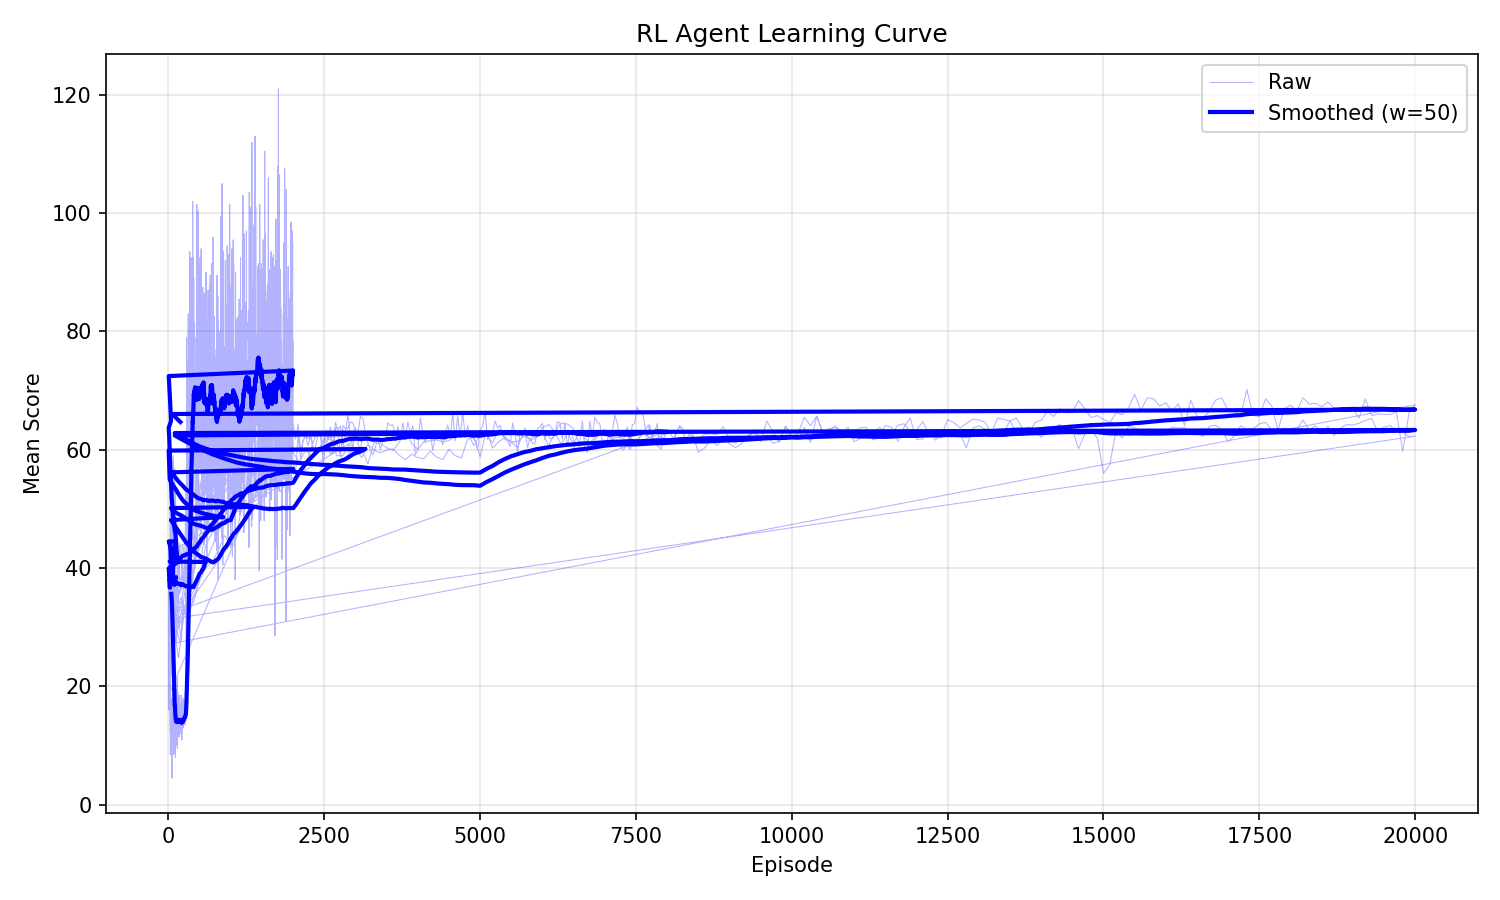
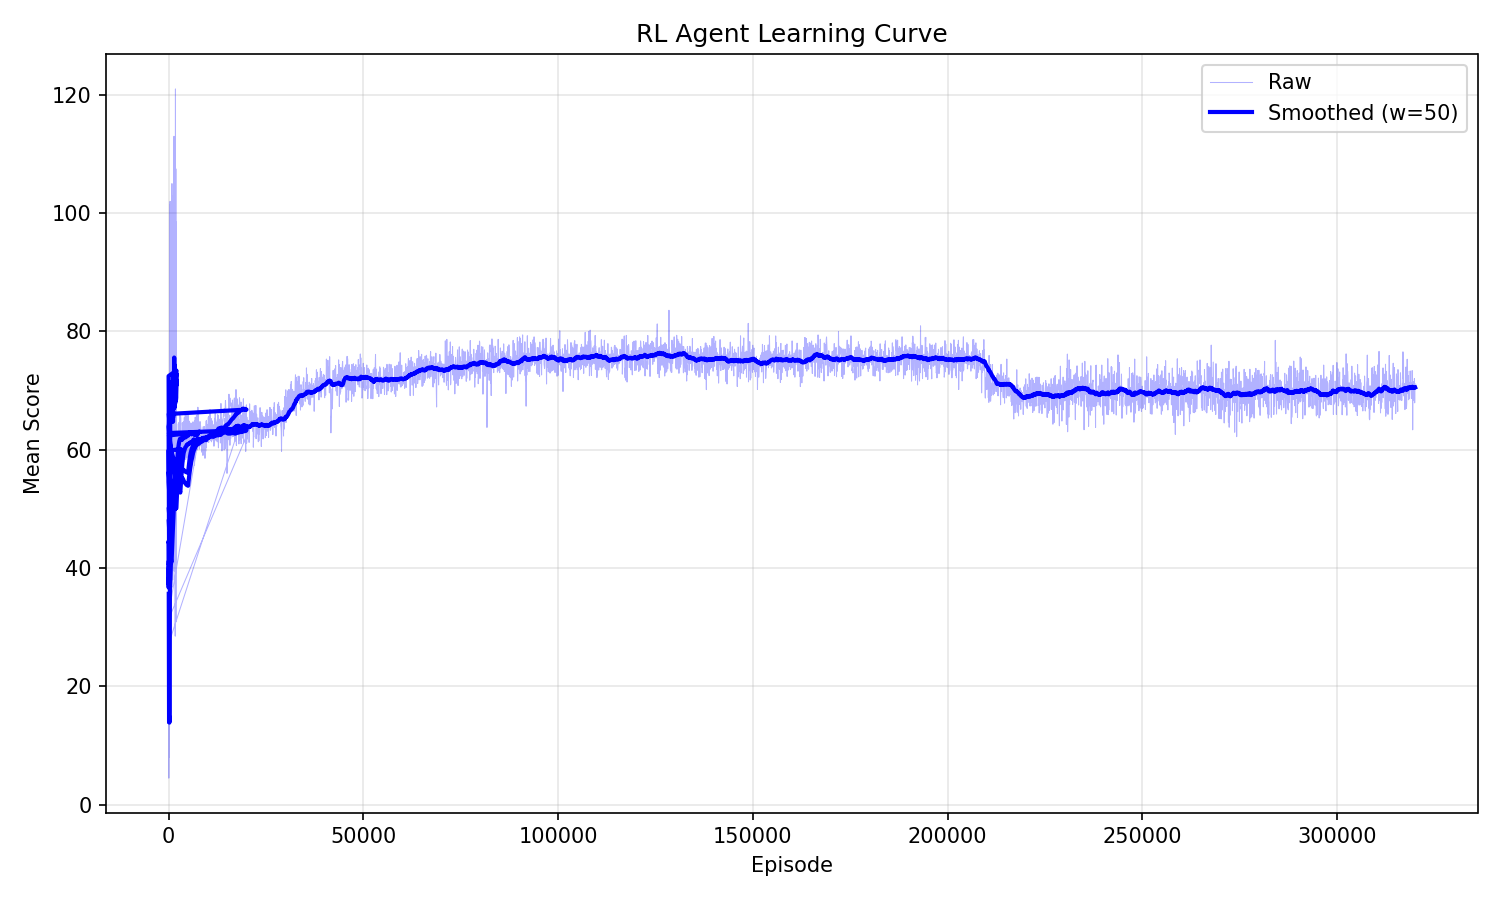
early exit

diff --git a/scripts/train_rl.py b/scripts/train_rl.py
@@ -12,6 +12,7 @@ from torch.utils.tensorboard import SummaryWriter
 from model.policy_network import PolicyNetwork, STATE_SIZE
 from model.ppo import PPOConfig, PPOTrainer, PPOUpdateResult
 from model.trajectory_buffer import build_batch
+from model.early_stop import EarlyStopConfig, EarlyStopTracker
 from model.rl_utils import collect_batch
 from src.game.rl_observer import PROMPT_FEATURES_SIZE
 
@@ -45,6 +46,7 @@ class TrainingConfig:
     num_workers: int = 0
     features: FeatureFlags = field(default_factory=FeatureFlags)
     io: IOConfig = field(default_factory=IOConfig)
+    early_stop: EarlyStopConfig = field(default_factory=EarlyStopConfig)
 
 
 @dataclass
@@ -89,11 +91,32 @@ def _training_loop(
     config: TrainingConfig,
     start_iteration: int,
 ) -> None:
+    tracker = EarlyStopTracker(
+        patience=config.early_stop.patience,
+        smoothing=config.early_stop.smoothing,
+    )
+    last_iteration = start_iteration
     for iteration in range(start_iteration, config.iterations):
         result, metrics = _training_step(ctx, config, iteration)
         _log_iteration(writer, metrics, result)
         _maybe_checkpoint(ctx.policy, ctx.trainer, iteration, config)
-    _save_checkpoint(ctx.policy, ctx.trainer, config.iterations - 1, config.io.checkpoint_dir)
+        last_iteration = iteration
+        if _check_early_stop(tracker, metrics, ctx.policy):
+            break
+    _save_checkpoint(ctx.policy, ctx.trainer, last_iteration, config.io.checkpoint_dir)
+
+
+def _check_early_stop(
+    tracker: EarlyStopTracker,
+    metrics: IterationMetrics,
+    policy: PolicyNetwork,
+) -> bool:
+    mean_score = sum(metrics.scores) / len(metrics.scores)
+    if tracker.step(mean_score, policy.state_dict()):
+        logger.info("Restoring best weights (smoothed score: %.1f)", tracker.best_score)
+        policy.load_state_dict(tracker.best_state())
+        return True
+    return False
 
 
 def _training_step(
@@ -252,6 +275,10 @@ def _build_config(args: argparse.Namespace) -> TrainingConfig:
         log_dir=args.log_dir,
         resume=args.resume,
     )
+    early_stop = EarlyStopConfig(
+        patience=args.early_stop_patience,
+        smoothing=args.early_stop_smoothing,
+    )
     return TrainingConfig(
         iterations=args.iterations,
         batch_size=args.batch_size,
@@ -261,6 +288,7 @@ def _build_config(args: argparse.Namespace) -> TrainingConfig:
         hidden2=args.hidden2,
         features=features,
         io=io_config,
+        early_stop=early_stop,
     )
 
 
@@ -284,6 +312,8 @@ def _parse_arguments() -> argparse.Namespace:
     parser.add_argument("--curriculum", action="store_true", help="Enable curriculum learning (gradual round increase)")
     parser.add_argument("--max-rounds-start", type=int, default=2, help="Starting number of rounds for curriculum")
     parser.add_argument("--max-rounds-end", type=int, default=6, help="Final number of rounds for curriculum")
+    parser.add_argument("--early-stop-patience", type=int, default=0, help="Early stop patience in iterations (0=disabled)")
+    parser.add_argument("--early-stop-smoothing", type=float, default=0.05, help="EMA smoothing factor for early stop score")
     return parser.parse_args()
 
 

diff --git a/test/model/test_early_stop.py b/test/model/test_early_stop.py
@@ -1,0 +1,77 @@
+from model.early_stop import EarlyStopTracker
+
+
+class TestEarlyStopTrackerDisabled:
+    def test_never_stops_when_patience_zero(self):
+        tracker = EarlyStopTracker(patience=0, smoothing=0.05)
+        assert not tracker.step(10.0, {"w": 1})
+
+    def test_not_enabled_when_patience_zero(self):
+        tracker = EarlyStopTracker(patience=0, smoothing=0.05)
+        assert not tracker.enabled
+
+
+class TestEarlyStopTrackerStop:
+    def test_no_stop_while_improving(self):
+        tracker = EarlyStopTracker(patience=3, smoothing=1.0)
+        tracker.step(10.0, {})
+        tracker.step(20.0, {})
+        assert not tracker.step(30.0, {})
+
+    def test_stops_after_patience_exceeded(self):
+        tracker = EarlyStopTracker(patience=3, smoothing=1.0)
+        tracker.step(100.0, {})
+        tracker.step(90.0, {})
+        tracker.step(80.0, {})
+        assert tracker.step(70.0, {})
+
+    def test_does_not_stop_before_patience(self):
+        tracker = EarlyStopTracker(patience=3, smoothing=1.0)
+        tracker.step(100.0, {})
+        tracker.step(90.0, {})
+        assert not tracker.step(80.0, {})
+
+    def test_resets_wait_on_improvement(self):
+        tracker = EarlyStopTracker(patience=3, smoothing=1.0)
+        tracker.step(100.0, {})
+        tracker.step(90.0, {})
+        tracker.step(110.0, {})
+        tracker.step(100.0, {})
+        assert not tracker.step(90.0, {})
+
+
+class TestEarlyStopTrackerBestState:
+    def test_returns_snapshot_at_peak(self):
+        tracker = EarlyStopTracker(patience=2, smoothing=1.0)
+        tracker.step(100.0, {"w": "best"})
+        tracker.step(50.0, {"w": "bad1"})
+        tracker.step(40.0, {"w": "bad2"})
+        assert tracker.best_state() == {"w": "best"}
+
+    def test_is_deep_copy(self):
+        state = {"w": [1, 2, 3]}
+        tracker = EarlyStopTracker(patience=5, smoothing=1.0)
+        tracker.step(100.0, state)
+        state["w"].append(4)
+        assert tracker.best_state() == {"w": [1, 2, 3]}
+
+    def test_best_score_tracks_peak(self):
+        tracker = EarlyStopTracker(patience=10, smoothing=1.0)
+        tracker.step(50.0, {})
+        tracker.step(100.0, {})
+        tracker.step(75.0, {})
+        assert tracker.best_score == 100.0
+
+
+class TestEarlyStopTrackerSmoothing:
+    def test_dampens_spike(self):
+        tracker = EarlyStopTracker(patience=3, smoothing=0.1)
+        tracker.step(100.0, {})
+        tracker.step(200.0, {})
+        assert tracker.best_score < 120.0
+
+    def test_smoothing_one_uses_raw_score(self):
+        tracker = EarlyStopTracker(patience=3, smoothing=1.0)
+        tracker.step(50.0, {})
+        tracker.step(100.0, {})
+        assert tracker.best_score == 100.0

diff --git a/model/early_stop.py b/model/early_stop.py
@@ -1,0 +1,68 @@
+from __future__ import annotations
+
+import copy
+import logging
+from dataclasses import dataclass, field
+
+logger = logging.getLogger(__name__)
+
+
+@dataclass
+class EarlyStopConfig:
+    patience: int = 0
+    smoothing: float = 0.05
+
+
+@dataclass
+class EarlyStopTracker:
+    patience: int
+    smoothing: float
+    _best_smoothed_score: float = field(default=float("-inf"), init=False, repr=False)
+    _smoothed_score: float = field(default=0.0, init=False, repr=False)
+    _best_state_dict: dict = field(default_factory=dict, init=False, repr=False)
+    _wait: int = field(default=0, init=False, repr=False)
+    _initialized: bool = field(default=False, init=False, repr=False)
+
+    @property
+    def best_score(self) -> float:
+        return self._best_smoothed_score
+
+    @property
+    def enabled(self) -> bool:
+        return self.patience > 0
+
+    def step(self, raw_score: float, state_dict: dict) -> bool:
+        if not self.enabled:
+            return False
+        self._update_smoothed(raw_score)
+        if self._smoothed_score > self._best_smoothed_score:
+            self._record_best(state_dict)
+            return False
+        self._wait += 1
+        if self._wait >= self.patience:
+            logger.info(
+                "Early stopping after %d iterations without improvement "
+                "(best smoothed score: %.1f)",
+                self._wait,
+                self._best_smoothed_score,
+            )
+            return True
+        return False
+
+    def best_state(self) -> dict:
+        return self._best_state_dict
+
+    def _record_best(self, state_dict: dict) -> None:
+        self._best_smoothed_score = self._smoothed_score
+        self._best_state_dict = copy.deepcopy(state_dict)
+        self._wait = 0
+
+    def _update_smoothed(self, raw_score: float) -> None:
+        if not self._initialized:
+            self._smoothed_score = raw_score
+            self._initialized = True
+        else:
+            self._smoothed_score = (
+                self.smoothing * raw_score
+                + (1 - self.smoothing) * self._smoothed_score
+            )

diff --git a/ARCHITECTURE.md b/ARCHITECTURE.md
@@ -44,6 +44,7 @@ model/
 ├── policy_network.py      # PolicyNetwork (nn.Module): shared trunk + policy/value heads
 ├── trajectory_buffer.py   # Transition, Trajectory, GAE computation, batch building
 ├── ppo.py                 # PPOTrainer, PPOConfig, clipped surrogate loss
+├── early_stop.py          # EarlyStopConfig, EarlyStopTracker (EMA-based early stopping with best-model restoration)
 └── rl_utils.py            # Shared helpers: make_policy_fn, run_episode, collect_batch (sequential/parallel), convert_trajectory
 scripts/
 ├── train_rl.py            # RL training entrypoint (PPO training loop, checkpointing, TensorBoard)
@@ -102,7 +103,9 @@ scripts/
 | `TrajectoryBatch` | `model/trajectory_buffer.py` | Flat tensors (states, actions, log_probs, values, action_masks, advantages, returns) for a batch of trajectories | `torch` |
 | `PPOConfig` | `model/ppo.py` | Dataclass holding PPO hyperparameters: learning rate, clip epsilon, epochs per batch, entropy/value coefficients, max grad norm, minibatch size | — |
 | `PPOTrainer` | `model/ppo.py` | Runs PPO updates: minibatch splitting, clipped surrogate loss, value loss, entropy bonus, gradient clipping | `PolicyNetwork`, `TrajectoryBatch`, `PPOConfig` |
-| `TrainingConfig` | `scripts/train_rl.py` | Dataclass holding training loop parameters: iterations, batch size, num_workers, hidden layer sizes, and nested `PPOConfig`, `FeatureFlags`, `IOConfig` | `PPOConfig`, `FeatureFlags`, `IOConfig` |
+| `EarlyStopConfig` | `model/early_stop.py` | Dataclass holding early stopping parameters: patience (iterations without improvement, 0=disabled) and EMA smoothing factor | — |
+| `EarlyStopTracker` | `model/early_stop.py` | Tracks exponential moving average of scores, snapshots best policy state, signals when to stop and provides best weights for restoration | — |
+| `TrainingConfig` | `scripts/train_rl.py` | Dataclass holding training loop parameters: iterations, batch size, num_workers, hidden layer sizes, and nested `PPOConfig`, `FeatureFlags`, `IOConfig`, `EarlyStopConfig` | `PPOConfig`, `FeatureFlags`, `IOConfig`, `EarlyStopConfig` |
 | `FeatureFlags` | `scripts/train_rl.py` | Dataclass holding feature toggles: observation augmentation, LR decay, curriculum learning (start/end rounds) | — |
 | `IOConfig` | `scripts/train_rl.py` | Dataclass holding I/O parameters: checkpoint interval/dir, log dir, resume path | — |
 | `TrainingContext` | `scripts/train_rl.py` | Dataclass bundling policy, trainer, and optional LR scheduler for the training loop | `PolicyNetwork`, `PPOTrainer` |
@@ -231,9 +234,9 @@ model/
       └── updates PolicyNetwork using TrajectoryBatch
 
 scripts/
-├── train_rl.py ─→ rl_utils, PolicyNetwork, PPOTrainer
+├── train_rl.py ─→ rl_utils, PolicyNetwork, PPOTrainer, EarlyStopTracker
 │                 └── training loop: collect episodes → build batch → PPO update → log & checkpoint
-│                 └── features: observation augmentation, LR decay, curriculum learning
+│                 └── features: observation augmentation, LR decay, curriculum learning, early stopping
 ├── pbt_train_rl.py ─→ rl_utils, PolicyNetwork, PPOTrainer
 │                    └── population-based training: init agents → train step → evaluate → exploit/explore
 └── evaluate_rl.py ─→ Game, RLObserver, RLInputHandler, PolicyNetwork, AutomaticInputHandler, AlwaysAcceptInputHandler

diff --git a/README.md b/README.md
@@ -134,6 +134,11 @@ Train with **parallel episode collection** (uses multiple CPU cores):
 python main.py train --num-workers 4
 ```
 
+Train with **early stopping** (stops when score plateaus, restores best weights):
+```bash
+python main.py train --early-stop-patience 300 --early-stop-smoothing 0.05
+```
+
 Evaluate the **RL agent** against baselines (random, always-accept):
 ```bash
 make evaluate-rl
@@ -154,9 +159,10 @@ Run PBT training with **Docker** (default 5 iterations):
 make docker-run
 ```
 
-Override the number of iterations:
+Override the number of iterations or parallel workers:
 ```bash
 make docker-run ITERATIONS=1000
+make docker-run NUM_WORKERS=8
 ```
 
 Clean up Docker resources:
@@ -184,7 +190,7 @@ Population-Based Training runs multiple agents in parallel, periodically replaci
 | **eval_interval** | `--eval-interval` | 50 | How often (in iterations) agents are evaluated and exploit/explore is triggered. Lower values adapt faster but add evaluation overhead. |
 | **eval_episodes** | `--eval-episodes` | 32 | Number of game episodes used to estimate each agent's mean score. More episodes reduce variance in fitness estimation. |
 | **batch_size** | `--batch-size` | 64 | Number of game episodes collected per agent per training step. Larger batches give more stable gradient estimates but slow each iteration. |
-| **num_workers** | `--num-workers` | 0 | Number of parallel worker processes for episode collection. 0 means sequential. Set to the number of CPU cores for best throughput. GPU is not used because the bottleneck is the Python game simulation, not the small neural network. |
+| **num_workers** | `--num-workers` | 0 (CLI) / 4 (Docker) | Number of parallel worker processes for episode collection. 0 means sequential. The Docker image defaults to 4 workers. Set to the number of CPU cores for best throughput. GPU is not used because the bottleneck is the Python game simulation, not the small neural network. |
 
 ### Exploit/Explore Parameters
 
